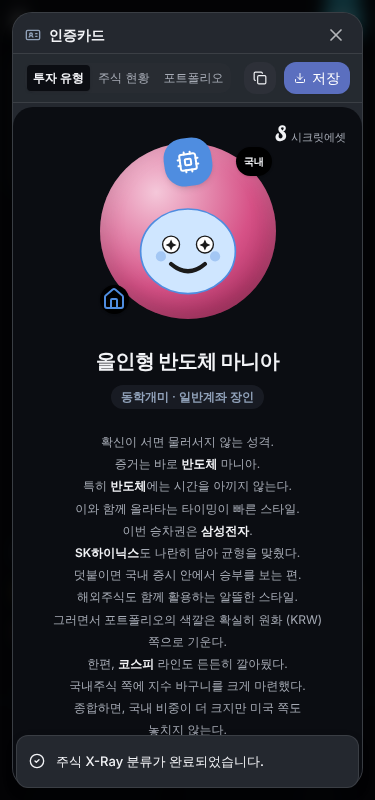
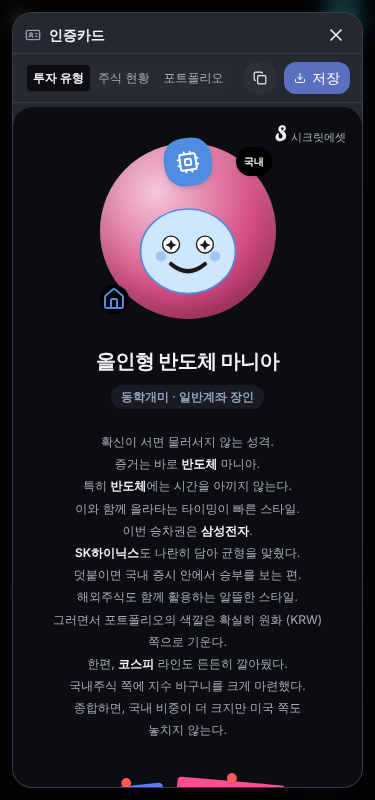
memory: 4.67 ui-review 필수 2건 반영(7cabb97), 375 4열 무스크롤 실측

Changed region(s): [[0.0293, 0.9062, 0.968, 1.0], [0.88, 0.0312, 0.9093, 0.0625]]

diff --git a/STATE.md b/STATE.md
@@ -48,7 +48,7 @@
 
 ## 열린 릴리스
 
-- **[developer 2026-11-09] 4.67 = #127 월별 기록(지난 여러 달 자산군별 금액 시트)** (브랜치 issue-4.67, origin/main dc4133d 분기, HEAD 33b9e9e, PR #128 draft, 폴더 `issues/4.67-127-monthly-log`, risk:low, **대표 승인 대상**, Vercel success, 다음 ui-designer 검수(dev-notes 'ui.md와 다른 점' 4건 판단 포함) → qa → COO).
+- **[developer 2026-11-09] 4.67 = #127 월별 기록(지난 여러 달 자산군별 금액 시트)** (브랜치 issue-4.67, origin/main dc4133d 분기, HEAD 7cabb97(ui-review 필수 2건 반영), PR #128 draft, 폴더 `issues/4.67-127-monthly-log`, risk:low, **대표 승인 대상**, Vercel success, 다음 ui-designer 재확인(레거시 기록일 줄바꿈) → qa → COO).
 - **[developer 2026-11-09] 4.66 = #125 하단 네비 6칸 → 5칸(인증카드 더보기 도구로, 업데이트 가운데)** (브랜치 issue-4.66, origin/main dc4133d 분기, 커밋 82e5186, PR #126 draft, 폴더 `issues/4.66-125-nav-restructure`, risk:low, **대표 승인 대상**, Vercel success, 다음 ui-review·qa).
 - **[developer 2026-11-09] 4.65 = #122 외화 환율 잔차를 환율 원인으로(#117 D3+P5b)** (브랜치 issue-4.65, origin/main eb204e4 분기, 커밋 c984e0c, PR #123 draft, 폴더 `issues/4.65-122-fx-residual`, risk:medium, COO 자체 승인 트랙). → **머지 완료 dc4133d(v4.65, 11-09), 운영 스모크 PASS.**
 - **[developer 2026-11-09] 4.63 = #119 거래 연결 계좌(해외주식 → 원화 계좌·대출)** (브랜치 issue-4.63, origin/main 9a28a9f 분기, 커밋 7bb10b1, 폴더 `issues/4.63-119-link-account-fx`, risk:medium, COO 자체 승인 트랙). → **머지 완료 f68adc3(v4.63), 운영 스모크 PASS.**
